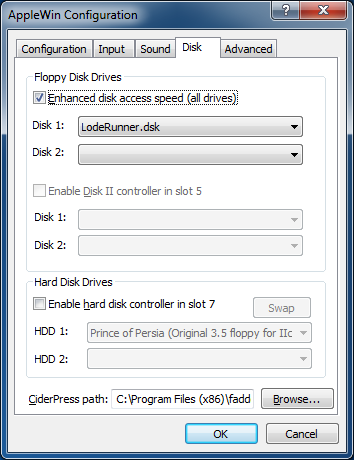
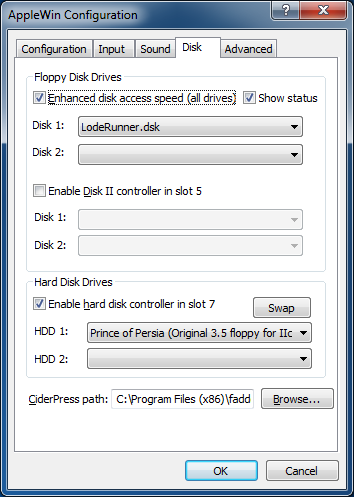
Help: update for Config -> Disk: 'Show Status'

Changed region(s): [[0.0, 0.0, 0.9944, 1.0], [0.0, 0.2739, 0.0311, 0.3043]]

diff --git a/help/cfg-disk.html b/help/cfg-disk.html
@@ -6,7 +6,7 @@
 </head>
 <body style="background-color: rgb(255, 255, 255); font-family: verdana;" alink="#008000" link="#008000" vlink="#008000">
 <h2 style="color: rgb(0, 128, 0);">Disk Settings</h2>
-<hr size="4"><img style="width: 354px; height: 460px; float: right;" src="img/disk.png" alt="Disk settings" hspace="5" vspace="5">
+<hr size="4"><img style="width: 354px; height: 497px; float: right;" src="img/disk.png" alt="Disk settings" hspace="5" vspace="5">
 
 <h3>Floppy Controller Settings:</h3>
 <p><strong>Enhanced disk access speed:</strong><br>
@@ -18,6 +18,10 @@ certain programs might depend on the "Authentic Speed" to function
 properly. This is the speed at which the real hardware
 would access data from your drives.
 </p>
+
+<p><strong>Show status:</strong><br>
+In 2x windowed-mode, optionally show the Track and Sector values for Drives 1 and 2 (for any Disk II cards in slots 5 and/or 6).
+Hovering over this status will show a tooltip with both decimal and hexadecimal values, and the track includes the full fractional quarter track value too.
 
 <p><strong>Disk 1/2 drop-down menus (slot 6):</strong><br>
 These menus allow you to select floppy disk images to 'insert' into the

diff --git a/source/Windows/Win32Frame.cpp b/source/Windows/Win32Frame.cpp
@@ -60,7 +60,7 @@ Win32Frame::Win32Frame()
 
 	g_bScrollLock_FullSpeed = false;
 
-	for (UINT slot = 0; slot < NUM_SLOTS; slot++)
+	for (UINT slot = SLOT0; slot < NUM_SLOTS; slot++)
 	{
 		g_nSector[slot][0] = -1;
 		g_nSector[slot][1] = -1;
